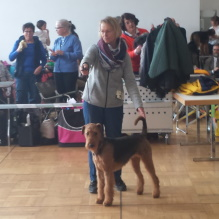
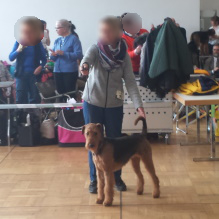
Neutralisierung für Datenschutz

diff --git a/ueberuns.html b/ueberuns.html
@@ -29,7 +29,7 @@
 			<section id="content" class="main">
 				<span class="image main"><img src="images/ueberuns_header.jpg" alt="Banner Über Uns" /></span>
 				<h2>Das war gestern</h2>
-				<p>Ich heiße Anne-Marie Winter und bin auf einer Kleintier-Ranch mit vielen Tieren, wie Kaninchen, Schafen, Ziegen usw. aufgewachsen.
+				<p>Ich heiße Marianne Musterfrau und bin auf einer Kleintier-Ranch mit vielen Tieren, wie Kaninchen, Schafen, Ziegen usw. aufgewachsen.
 					Klar, dass ich dadurch zahlreiche Tiergeburten erlebt habe. Die erste Hunde-Welpen Erfahrung hatte ich dann mit zwölf Jahren.
 					Unsere Schäferhündin Maja brachte damals sechs Welpen auf die Welt. Von diesen haben wir einen behalten und gaben ihm den Namen Caesar.
 					Mit Ceasar hatte ich dann auch meine erste Mensch-Hund Beziehung aufgebaut, diese ersten Erfahrungen mit Hunden prägen mich heute noch.
@@ -45,8 +45,8 @@
 					unvollständig.</p>
 				<h2>Das ist heute</h2>
 				<p>Da ich schon immer vom Airedale Terrier, von seiner Erscheinung und seinen vielen guten Eigenschaften fasziniert war,
-					machte ich mich auf die Suche nach einem geeigneten Züchter. Das war gar nicht so einfach, aber ich wurde schließlich in Reutlingen
-					bei Carmen Walzebuck mit ihren Allegras fündig. So bekamen wir im August 2017 unsere Kira von Allegra.</p>
+					machte ich mich auf die Suche nach einem geeigneten Züchter. Das war gar nicht so einfach, aber ich wurde schließlich in Musterlingen
+					bei Marianne Musterzüchterin mit ihren Allegras fündig. So bekamen wir im August 2017 unsere Kira von Allegra.</p>
 				<p><span class="image left"><img src="images/ueberuns_bild3.jpg" alt="Kira" /></span>Mit Kira habe ich alle erforderlichen Prüfungen abgelegt,
 					um eine Hobbyzucht starten zu dürfen. Seit April 2020 bin ich unter dem Zwingernamen "von der Kiralou" im Klub für Terrier e.V. (KfT) als
 					Zuchtstätte zugelassen. Im Sommer hatte Kira auch ihren ersten Wurf, am 22.06.20 erblickten neun Airedale Welpen das Licht der Welt.
@@ -71,31 +71,34 @@
 		<footer id="footer">
 			<section>
 				<h3>Anfahrt</h3>
-				<p>Wir wohnen in Gamerschwang, einem idyllischen Teilort der großen Kreisstadt Ehingen im Alb-Donau-Kreis (Baden-Württemberg),
-					eingebettet von der Bundesstrasse 311 im Norden und der Donau im Süden, ca. 25 km westlich von Ulm.
+				<p>Wir wohnen in Musterdorf, einem idyllischen Teilort der großen Kreisstadt Musterstadt im Eifel-Rems-Kreis (Baden-Musterberg),
+					eingebettet von der Bundesstrasse 333 im Norden und der Iller im Süden, ca. 12 km westlich von Obermusterstadt.
 				</p>
 				<iframe id="map"
-					src="https://www.google.com/maps/embed?pb=!1m14!1m8!1m3!1d5309.851323309004!2d9.784169!3d48.285046!3m2!1i1024!2i768!4f13.1!3m3!1m2!1s0x479bd634e326987f%3A0xa40a915da86e965f!2sHainbuchenstra%C3%9Fe%2026%2C%2089584%20Ehingen%20(Donau)!5e0!3m2!1sde!2sde!4v1595962453679!5m2!1sde!2sde"
+					src="https://www.google.com/maps/embed?pb=!1m28!1m12!1m3!1d42367.044160887344!2d9.857481309385618!3d48.419291210975416!2m3!1f0!2f0!3f0!3m2!1i1024!2i768!4f13.1!4m13!3e6!4m5!1s0x4799652deffb5f41%3A0xe5fe073ef1bc82a9!2sBlaustein%2C%2089134!3m2!1d48.4192416!2d9.8986807!4m5!1s0x4799652deffb5f41%3A0xe5fe073ef1bc82a9!2s89134%20Blaustein!3m2!1d48.4192416!2d9.8986807!5e0!3m2!1sde!2sde!4v1731256450323!5m2!1sde!2sde"
 					width="200" height="150" frameborder="0" style="border:0;" allowfullscreen="" aria-hidden="false" tabindex="0"></iframe>
 				<ul class="actions stacked">
-					<li><a href="https://www.google.com/maps/place/Hainbuchenstra%C3%9Fe+26,+89584+Ehingen+(Donau)/@48.285046,9.784169,15z/data=!4m5!3m4!1s0x479bd634e326987f:0xa40a915da86e965f!8m2!3d48.2850457!4d9.7841687?hl=de" target="_blank"
+					<li><a href="https://www.google.com/maps/place/Gottliebstra%C3%9Fe+2,+89134+Blaustein/@48.4159923,9.9207922,17z/data=!3m1!4b1!4m6!3m5!1s0x479965035c76c7db:0x36463cbb7c46f6a9!8m2!3d48.4159888!4d9.9233671!16s%2Fg%2F11c19hh6fl?hl=de&entry=ttu&g_ep=EgoyMDI0MTEwNi4wIKXMDSoASAFQAw%3D%3D" target="_blank"
 							class="button primary fit">zum routenplaner (neues fenster)</a></li>
 				</ul>
 			</section>
 			<section>
 				<h3>Impressum & Kontakt</h3>
-				<p>Annemarie Winter<br>
-					Hainbuchenstr. 26<br>
-					89584 Gamerschwang<br><br>
-					<b>Telefon: </b>+49 7394 54252<br>
-					<b>Mobil: </b>+49 1578 0859308<br>
-					<b>E-Mail: </b><a href="mailto:annemarie-winter@gmx.de" class="footertext"> annemarie-winter@gmx.de</a></p>
+				<p>Marianne Musterfrau<br>
+					Musterfraustr. 62<br>
+					00000 Musterstadt<br><br>
+					<b>Telefon: </b>+49 3333 55555<br>
+					<b>Mobil: </b>+49 172 1234567<br>
+					<b>E-Mail: </b><a href="mailto:marianne-musterfrau@freenet.de" class="footertext"> marianne-musterfrau@freenet.de</a></p>
 				<h3>Links & Partner</h3>
 				<ul class="statistics">
-					<li><a href="https://www.kft-online.de" class="icon"><img src="images/kft_logo.png" alt="KFT-Logo"></a></li>
-					<li><a href="https://www.vdh.de" class="icon"><img src="images/vdh_logo.png" alt="VDH-Logo"></a></li>
+					<li><a href="https://www.platzhalter.de" class="icon"><img src="images/kft_logo.png" alt="KFT-Logo"></a></li>
+					<li><a href="https://www.platzhalter.de" class="icon"><img src="images/vdh_logo.png" alt="VDH-Logo"></a></li>
+					<li><a href="http://www.platzhalter.de" class="icon"><img src="images/buehler_logo.png" alt="Bühlertal-Logo"></a></li>
+					<li><a href="https://www.platzhalter.de" class="icon"><img src="images/allegra_logo.png" alt="Allegra-Logo"></a></li>
 					<li><a href="https://www.hundetraining-humplik.de" class="icon"><img src="images/hundetraining_humplik_logo.png" alt="Hundetraining Humplik Logo"></a></li>
 				</ul>
+				<h3>Rechtliches</h3>
 				<a href="#openModal">Datenschutzerklärung</a>
 				<div id="openModal" class="modalDialog">
 					<div>

diff --git a/ersterwurf.html b/ersterwurf.html
@@ -57,8 +57,8 @@
 				<hr>
 				<h3>Der Papa - Sherlock</h3>
 				<p><span class="image right"><img src="images/ersterwurf_04.jpg" alt="" /></span>
-					Sher Unit Sherlock Holmes kam am 12.05.2017 bei den <a href="http://www.airedales-vom-buehlertal.de/Deckrueden/Sher-Unit-Sherlock-Holmes/">
-						Airedales vom Bühlertal</a> auf die Welt und ist eine polnisch/russische Mischung aus Schönheit und Sport. Sherlock läuft hervorragend auf
+					Muster Unit Sherlock Musters kam am 12.05.2017 bei den <a href="http://www.platzhalter.de">
+						Airedales vom Mustertal</a> auf die Welt und ist eine polnisch/russische Mischung aus Schönheit und Sport. Sherlock läuft hervorragend auf
 					Ausstellungen und hat in seiner Jugend schon mehrere Preise und Auszeichnungen erhalten. Er deckte bereits mehrfach erfolgreich.</p>
 				<ul>
 					<li>Weltjugendsieger, German Juniorwinner und Bundesjugendsieger Österreich 2018</li>
@@ -80,31 +80,34 @@
 		<footer id="footer">
 			<section>
 				<h3>Anfahrt</h3>
-				<p>Wir wohnen in Gamerschwang, einem idyllischen Teilort der großen Kreisstadt Ehingen im Alb-Donau-Kreis (Baden-Württemberg),
-					eingebettet von der Bundesstrasse 311 im Norden und der Donau im Süden, ca. 25 km westlich von Ulm.
+				<p>Wir wohnen in Musterdorf, einem idyllischen Teilort der großen Kreisstadt Musterstadt im Eifel-Rems-Kreis (Baden-Musterberg),
+					eingebettet von der Bundesstrasse 333 im Norden und der Iller im Süden, ca. 12 km westlich von Obermusterstadt.
 				</p>
 				<iframe id="map"
-					src="https://www.google.com/maps/embed?pb=!1m14!1m8!1m3!1d5309.851323309004!2d9.784169!3d48.285046!3m2!1i1024!2i768!4f13.1!3m3!1m2!1s0x479bd634e326987f%3A0xa40a915da86e965f!2sHainbuchenstra%C3%9Fe%2026%2C%2089584%20Ehingen%20(Donau)!5e0!3m2!1sde!2sde!4v1595962453679!5m2!1sde!2sde"
+					src="https://www.google.com/maps/embed?pb=!1m28!1m12!1m3!1d42367.044160887344!2d9.857481309385618!3d48.419291210975416!2m3!1f0!2f0!3f0!3m2!1i1024!2i768!4f13.1!4m13!3e6!4m5!1s0x4799652deffb5f41%3A0xe5fe073ef1bc82a9!2sBlaustein%2C%2089134!3m2!1d48.4192416!2d9.8986807!4m5!1s0x4799652deffb5f41%3A0xe5fe073ef1bc82a9!2s89134%20Blaustein!3m2!1d48.4192416!2d9.8986807!5e0!3m2!1sde!2sde!4v1731256450323!5m2!1sde!2sde"
 					width="200" height="150" frameborder="0" style="border:0;" allowfullscreen="" aria-hidden="false" tabindex="0"></iframe>
 				<ul class="actions stacked">
-					<li><a href="https://www.google.com/maps/place/Hainbuchenstra%C3%9Fe+26,+89584+Ehingen+(Donau)/@48.285046,9.784169,15z/data=!4m5!3m4!1s0x479bd634e326987f:0xa40a915da86e965f!8m2!3d48.2850457!4d9.7841687?hl=de" target="_blank"
+					<li><a href="https://www.google.com/maps/place/Gottliebstra%C3%9Fe+2,+89134+Blaustein/@48.4159923,9.9207922,17z/data=!3m1!4b1!4m6!3m5!1s0x479965035c76c7db:0x36463cbb7c46f6a9!8m2!3d48.4159888!4d9.9233671!16s%2Fg%2F11c19hh6fl?hl=de&entry=ttu&g_ep=EgoyMDI0MTEwNi4wIKXMDSoASAFQAw%3D%3D" target="_blank"
 							class="button primary fit">zum routenplaner (neues fenster)</a></li>
 				</ul>
 			</section>
 			<section>
 				<h3>Impressum & Kontakt</h3>
-				<p>Annemarie Winter<br>
-					Hainbuchenstr. 26<br>
-					89584 Gamerschwang<br><br>
-					<b>Telefon: </b>+49 7394 54252<br>
-					<b>Mobil: </b>+49 1578 0859308<br>
-					<b>E-Mail: </b><a href="mailto:annemarie-winter@gmx.de" class="footertext"> annemarie-winter@gmx.de</a></p>
+				<p>Marianne Musterfrau<br>
+					Musterfraustr. 62<br>
+					00000 Musterstadt<br><br>
+					<b>Telefon: </b>+49 3333 55555<br>
+					<b>Mobil: </b>+49 172 1234567<br>
+					<b>E-Mail: </b><a href="mailto:marianne-musterfrau@freenet.de" class="footertext"> marianne-musterfrau@freenet.de</a></p>
 				<h3>Links & Partner</h3>
 				<ul class="statistics">
-					<li><a href="https://www.kft-online.de" class="icon"><img src="images/kft_logo.png" alt="KFT-Logo"></a></li>
-					<li><a href="https://www.vdh.de" class="icon"><img src="images/vdh_logo.png" alt="VDH-Logo"></a></li>
+					<li><a href="https://www.platzhalter.de" class="icon"><img src="images/kft_logo.png" alt="KFT-Logo"></a></li>
+					<li><a href="https://www.platzhalter.de" class="icon"><img src="images/vdh_logo.png" alt="VDH-Logo"></a></li>
+					<li><a href="http://www.platzhalter.de" class="icon"><img src="images/buehler_logo.png" alt="Bühlertal-Logo"></a></li>
+					<li><a href="https://www.platzhalter.de" class="icon"><img src="images/allegra_logo.png" alt="Allegra-Logo"></a></li>
 					<li><a href="https://www.hundetraining-humplik.de" class="icon"><img src="images/hundetraining_humplik_logo.png" alt="Hundetraining Humplik Logo"></a></li>
 				</ul>
+				<h3>Rechtliches</h3>
 				<a href="#openModal">Datenschutzerklärung</a>
 				<div id="openModal" class="modalDialog">
 					<div>

diff --git a/index.html b/index.html
@@ -74,12 +74,12 @@
 					<li>
 						<span class="icon major style3 fa-venus"></span>
 						<h3>KIRA - die Mama</h3>
-						<p>Kira kommt aus der Zucht "Airedales von Allegra" in Reutlingen und ist seit August 2017 bei uns.</p>
+						<p>Kira kommt aus der Zucht "Airedales von Allegra" in Musterlingen und ist seit August 2017 bei uns.</p>
 					</li>
 					<li>
 						<span class="icon solid major style1 fa-mars"></span>
 						<h3>SHERLOCK - der Papa</h3>
-						<p>Sher Unit Sherlock Holmes ist ein russisch-polnischer Mix aus Schönheit und Sportlichkeit.</p>
+						<p>Muster Unit Sherlock Musters ist ein russisch-polnischer Mix aus Schönheit und Sportlichkeit.</p>
 					</li>
 				</ul>
 				<footer class="major">
@@ -226,31 +226,31 @@
 		<footer id="footer">
 			<section>
 				<h3>Anfahrt</h3>
-				<p>Wir wohnen in Gamerschwang, einem idyllischen Teilort der großen Kreisstadt Ehingen im Alb-Donau-Kreis (Baden-Württemberg),
-					eingebettet von der Bundesstrasse 311 im Norden und der Donau im Süden, ca. 25 km westlich von Ulm.
+				<p>Wir wohnen in Musterdorf, einem idyllischen Teilort der großen Kreisstadt Musterstadt im Eifel-Rems-Kreis (Baden-Musterberg),
+					eingebettet von der Bundesstrasse 333 im Norden und der Iller im Süden, ca. 12 km westlich von Obermusterstadt.
 				</p>
 				<iframe id="map"
-					src="https://www.google.com/maps/embed?pb=!1m14!1m8!1m3!1d5309.851323309004!2d9.784169!3d48.285046!3m2!1i1024!2i768!4f13.1!3m3!1m2!1s0x479bd634e326987f%3A0xa40a915da86e965f!2sHainbuchenstra%C3%9Fe%2026%2C%2089584%20Ehingen%20(Donau)!5e0!3m2!1sde!2sde!4v1595962453679!5m2!1sde!2sde"
+					src="https://www.google.com/maps/embed?pb=!1m28!1m12!1m3!1d42367.044160887344!2d9.857481309385618!3d48.419291210975416!2m3!1f0!2f0!3f0!3m2!1i1024!2i768!4f13.1!4m13!3e6!4m5!1s0x4799652deffb5f41%3A0xe5fe073ef1bc82a9!2sBlaustein%2C%2089134!3m2!1d48.4192416!2d9.8986807!4m5!1s0x4799652deffb5f41%3A0xe5fe073ef1bc82a9!2s89134%20Blaustein!3m2!1d48.4192416!2d9.8986807!5e0!3m2!1sde!2sde!4v1731256450323!5m2!1sde!2sde"
 					width="200" height="150" frameborder="0" style="border:0;" allowfullscreen="" aria-hidden="false" tabindex="0"></iframe>
 				<ul class="actions stacked">
-					<li><a href="https://www.google.com/maps/place/Hainbuchenstra%C3%9Fe+26,+89584+Ehingen+(Donau)/@48.285046,9.784169,15z/data=!4m5!3m4!1s0x479bd634e326987f:0xa40a915da86e965f!8m2!3d48.2850457!4d9.7841687?hl=de" target="_blank"
+					<li><a href="https://www.google.com/maps/place/Gottliebstra%C3%9Fe+2,+89134+Blaustein/@48.4159923,9.9207922,17z/data=!3m1!4b1!4m6!3m5!1s0x479965035c76c7db:0x36463cbb7c46f6a9!8m2!3d48.4159888!4d9.9233671!16s%2Fg%2F11c19hh6fl?hl=de&entry=ttu&g_ep=EgoyMDI0MTEwNi4wIKXMDSoASAFQAw%3D%3D" target="_blank"
 							class="button primary fit">zum routenplaner (neues fenster)</a></li>
 				</ul>
 			</section>
 			<section>
 				<h3>Impressum & Kontakt</h3>
-				<p>Annemarie Winter<br>
-					Hainbuchenstr. 26<br>
-					89584 Gamerschwang<br><br>
-					<b>Telefon: </b>+49 7394 54252<br>
-					<b>Mobil: </b>+49 1578 0859308<br>
-					<b>E-Mail: </b><a href="mailto:annemarie-winter@gmx.de" class="footertext"> annemarie-winter@gmx.de</a></p>
+				<p>Marianne Musterfrau<br>
+					Musterfraustr. 62<br>
+					00000 Musterstadt<br><br>
+					<b>Telefon: </b>+49 3333 55555<br>
+					<b>Mobil: </b>+49 172 1234567<br>
+					<b>E-Mail: </b><a href="mailto:marianne-musterfrau@freenet.de" class="footertext"> marianne-musterfrau@freenet.de</a></p>
 				<h3>Links & Partner</h3>
 				<ul class="statistics">
-					<li><a href="https://www.kft-online.de" class="icon"><img src="images/kft_logo.png" alt="KFT-Logo"></a></li>
-					<li><a href="https://www.vdh.de" class="icon"><img src="images/vdh_logo.png" alt="VDH-Logo"></a></li>
-					<li><a href="http://www.airedales-vom-buehlertal.de" class="icon"><img src="images/buehler_logo.png" alt="Bühlertal-Logo"></a></li>
-					<li><a href="https://www.airedales-von-allegra.de" class="icon"><img src="images/allegra_logo.png" alt="Allegra-Logo"></a></li>
+					<li><a href="https://www.platzhalter.de" class="icon"><img src="images/kft_logo.png" alt="KFT-Logo"></a></li>
+					<li><a href="https://www.platzhalter.de" class="icon"><img src="images/vdh_logo.png" alt="VDH-Logo"></a></li>
+					<li><a href="http://www.platzhalter.de" class="icon"><img src="images/buehler_logo.png" alt="Bühlertal-Logo"></a></li>
+					<li><a href="https://www.platzhalter.de" class="icon"><img src="images/allegra_logo.png" alt="Allegra-Logo"></a></li>
 					<li><a href="https://www.hundetraining-humplik.de" class="icon"><img src="images/hundetraining_humplik_logo.png" alt="Hundetraining Humplik Logo"></a></li>
 				</ul>
 				<h3>Rechtliches</h3>

diff --git a/allhtml.html b/allhtml.html
@@ -366,31 +366,31 @@ print 'It took ' + i + ' iterations to sort the deck.';</code></pre>
 		<footer id="footer">
 			<section>
 				<h3>Anfahrt</h3>
-				<p>Wir wohnen in Gamerschwang, einem idyllischen Teilort der großen Kreisstadt Ehingen im Alb-Donau-Kreis (Baden-Württemberg),
-					eingebettet von der Bundesstrasse 311 im Norden und der Donau im Süden, ca. 25 km westlich von Ulm.
+				<p>Wir wohnen in Musterdorf, einem idyllischen Teilort der großen Kreisstadt Musterstadt im Eifel-Rems-Kreis (Baden-Musterberg),
+					eingebettet von der Bundesstrasse 333 im Norden und der Iller im Süden, ca. 12 km westlich von Obermusterstadt.
 				</p>
 				<iframe id="map"
-					src="https://www.google.com/maps/embed?pb=!1m14!1m8!1m3!1d5309.851323309004!2d9.784169!3d48.285046!3m2!1i1024!2i768!4f13.1!3m3!1m2!1s0x479bd634e326987f%3A0xa40a915da86e965f!2sHainbuchenstra%C3%9Fe%2026%2C%2089584%20Ehingen%20(Donau)!5e0!3m2!1sde!2sde!4v1595962453679!5m2!1sde!2sde"
+					src="https://www.google.com/maps/embed?pb=!1m28!1m12!1m3!1d42367.044160887344!2d9.857481309385618!3d48.419291210975416!2m3!1f0!2f0!3f0!3m2!1i1024!2i768!4f13.1!4m13!3e6!4m5!1s0x4799652deffb5f41%3A0xe5fe073ef1bc82a9!2sBlaustein%2C%2089134!3m2!1d48.4192416!2d9.8986807!4m5!1s0x4799652deffb5f41%3A0xe5fe073ef1bc82a9!2s89134%20Blaustein!3m2!1d48.4192416!2d9.8986807!5e0!3m2!1sde!2sde!4v1731256450323!5m2!1sde!2sde"
 					width="200" height="150" frameborder="0" style="border:0;" allowfullscreen="" aria-hidden="false" tabindex="0"></iframe>
 				<ul class="actions stacked">
-					<li><a href="https://www.google.com/maps/place/Hainbuchenstra%C3%9Fe+26,+89584+Ehingen+(Donau)/@48.285046,9.784169,15z/data=!4m5!3m4!1s0x479bd634e326987f:0xa40a915da86e965f!8m2!3d48.2850457!4d9.7841687?hl=de" target="_blank"
+					<li><a href="https://www.google.com/maps/place/Gottliebstra%C3%9Fe+2,+89134+Blaustein/@48.4159923,9.9207922,17z/data=!3m1!4b1!4m6!3m5!1s0x479965035c76c7db:0x36463cbb7c46f6a9!8m2!3d48.4159888!4d9.9233671!16s%2Fg%2F11c19hh6fl?hl=de&entry=ttu&g_ep=EgoyMDI0MTEwNi4wIKXMDSoASAFQAw%3D%3D" target="_blank"
 							class="button primary fit">zum routenplaner (neues fenster)</a></li>
 				</ul>
 			</section>
 			<section>
 				<h3>Impressum & Kontakt</h3>
-				<p>Annemarie Winter<br>
-					Hainbuchenstr. 26<br>
-					89584 Gamerschwang<br><br>
-					<b>Telefon: </b>+49 7394 54252<br>
-					<b>Mobil: </b>+49 1578 0859308<br>
-					<b>E-Mail: </b><a href="mailto:annemarie-winter@gmx.de" class="footertext"> annemarie-winter@gmx.de</a></p>
+				<p>Marianne Musterfrau<br>
+					Musterfraustr. 62<br>
+					00000 Musterstadt<br><br>
+					<b>Telefon: </b>+49 3333 55555<br>
+					<b>Mobil: </b>+49 172 1234567<br>
+					<b>E-Mail: </b><a href="mailto:marianne-musterfrau@freenet.de" class="footertext"> marianne-musterfrau@freenet.de</a></p>
 				<h3>Links & Partner</h3>
 				<ul class="statistics">
-					<li><a href="https://www.kft-online.de" class="icon"><img src="images/kft_logo.png" alt="KFT-Logo"></a></li>
-					<li><a href="https://www.vdh.de" class="icon"><img src="images/vdh_logo.png" alt="VDH-Logo"></a></li>
-					<li><a href="http://www.airedales-vom-buehlertal.de" class="icon"><img src="images/buehler_logo.png" alt="Bühlertal-Logo"></a></li>
-					<li><a href="https://www.airedales-von-allegra.de" class="icon"><img src="images/allegra_logo.png" alt="Allegra-Logo"></a></li>
+					<li><a href="https://www.platzhalter.de" class="icon"><img src="images/kft_logo.png" alt="KFT-Logo"></a></li>
+					<li><a href="https://www.platzhalter.de" class="icon"><img src="images/vdh_logo.png" alt="VDH-Logo"></a></li>
+					<li><a href="http://www.platzhalter.de" class="icon"><img src="images/buehler_logo.png" alt="Bühlertal-Logo"></a></li>
+					<li><a href="https://www.platzhalter.de" class="icon"><img src="images/allegra_logo.png" alt="Allegra-Logo"></a></li>
 					<li><a href="https://www.hundetraining-humplik.de" class="icon"><img src="images/hundetraining_humplik_logo.png" alt="Hundetraining Humplik Logo"></a></li>
 				</ul>
 				<h3>Rechtliches</h3>

diff --git a/airedale.html b/airedale.html
@@ -57,29 +57,31 @@
 		<footer id="footer">
 			<section>
 				<h3>Anfahrt</h3>
-				<p>Wir wohnen in Gamerschwang, einem idyllischen Teilort der großen Kreisstadt Ehingen im Alb-Donau-Kreis (Baden-Württemberg),
-					eingebettet von der Bundesstrasse 311 im Norden und der Donau im Süden, ca. 25 km westlich von Ulm.
+				<p>Wir wohnen in Musterdorf, einem idyllischen Teilort der großen Kreisstadt Musterstadt im Eifel-Rems-Kreis (Baden-Musterberg),
+					eingebettet von der Bundesstrasse 333 im Norden und der Iller im Süden, ca. 12 km westlich von Obermusterstadt.
 				</p>
 				<iframe id="map"
-					src="https://www.google.com/maps/embed?pb=!1m14!1m8!1m3!1d5309.851323309004!2d9.784169!3d48.285046!3m2!1i1024!2i768!4f13.1!3m3!1m2!1s0x479bd634e326987f%3A0xa40a915da86e965f!2sHainbuchenstra%C3%9Fe%2026%2C%2089584%20Ehingen%20(Donau)!5e0!3m2!1sde!2sde!4v1595962453679!5m2!1sde!2sde"
+					src="https://www.google.com/maps/embed?pb=!1m28!1m12!1m3!1d42367.044160887344!2d9.857481309385618!3d48.419291210975416!2m3!1f0!2f0!3f0!3m2!1i1024!2i768!4f13.1!4m13!3e6!4m5!1s0x4799652deffb5f41%3A0xe5fe073ef1bc82a9!2sBlaustein%2C%2089134!3m2!1d48.4192416!2d9.8986807!4m5!1s0x4799652deffb5f41%3A0xe5fe073ef1bc82a9!2s89134%20Blaustein!3m2!1d48.4192416!2d9.8986807!5e0!3m2!1sde!2sde!4v1731256450323!5m2!1sde!2sde"
 					width="200" height="150" frameborder="0" style="border:0;" allowfullscreen="" aria-hidden="false" tabindex="0"></iframe>
 				<ul class="actions stacked">
-					<li><a href="https://www.google.com/maps/place/Hainbuchenstra%C3%9Fe+26,+89584+Ehingen+(Donau)/@48.285046,9.784169,15z/data=!4m5!3m4!1s0x479bd634e326987f:0xa40a915da86e965f!8m2!3d48.2850457!4d9.7841687?hl=de" target="_blank"
+					<li><a href="https://www.google.com/maps/place/Gottliebstra%C3%9Fe+2,+89134+Blaustein/@48.4159923,9.9207922,17z/data=!3m1!4b1!4m6!3m5!1s0x479965035c76c7db:0x36463cbb7c46f6a9!8m2!3d48.4159888!4d9.9233671!16s%2Fg%2F11c19hh6fl?hl=de&entry=ttu&g_ep=EgoyMDI0MTEwNi4wIKXMDSoASAFQAw%3D%3D" target="_blank"
 							class="button primary fit">zum routenplaner (neues fenster)</a></li>
 				</ul>
 			</section>
 			<section>
 				<h3>Impressum & Kontakt</h3>
-				<p>Annemarie Winter<br>
-					Hainbuchenstr. 26<br>
-					89584 Gamerschwang<br><br>
-					<b>Telefon: </b>+49 7394 54252<br>
-					<b>Mobil: </b>+49 1578 0859308<br>
-					<b>E-Mail: </b><a href="mailto:annemarie-winter@gmx.de" class="footertext"> annemarie-winter@gmx.de</a></p>
+				<p>Marianne Musterfrau<br>
+					Musterfraustr. 62<br>
+					00000 Musterstadt<br><br>
+					<b>Telefon: </b>+49 3333 55555<br>
+					<b>Mobil: </b>+49 172 1234567<br>
+					<b>E-Mail: </b><a href="mailto:marianne-musterfrau@freenet.de" class="footertext"> marianne-musterfrau@freenet.de</a></p>
 				<h3>Links & Partner</h3>
 				<ul class="statistics">
-					<li><a href="https://www.kft-online.de" class="icon"><img src="images/kft_logo.png" alt="KFT-Logo"></a></li>
-					<li><a href="https://www.vdh.de" class="icon"><img src="images/vdh_logo.png" alt="VDH-Logo"></a></li>
+					<li><a href="https://www.platzhalter.de" class="icon"><img src="images/kft_logo.png" alt="KFT-Logo"></a></li>
+					<li><a href="https://www.platzhalter.de" class="icon"><img src="images/vdh_logo.png" alt="VDH-Logo"></a></li>
+					<li><a href="http://www.platzhalter.de" class="icon"><img src="images/buehler_logo.png" alt="Bühlertal-Logo"></a></li>
+					<li><a href="https://www.platzhalter.de" class="icon"><img src="images/allegra_logo.png" alt="Allegra-Logo"></a></li>
 					<li><a href="https://www.hundetraining-humplik.de" class="icon"><img src="images/hundetraining_humplik_logo.png" alt="Hundetraining Humplik Logo"></a></li>
 				</ul>
 				<h3>Rechtliches</h3>

diff --git a/README.md b/README.md
@@ -1,2 +1,2 @@
 # Webdesign-Projekt-Airedales-von-der-Kiralou
- Das ist ein privates Projekt, das nie Online gegangen ist (Auftraggeber hat die Hundezucht ausfgehört, die Seite war fertig und bereit zur Veröffentlichung)veröffetnlich
+ Das ist ein privates Projekt, das nie Online gegangen ist (Die Auftraggeberin hat die Hundezucht aufgehört, bevor die Seite online ging).
